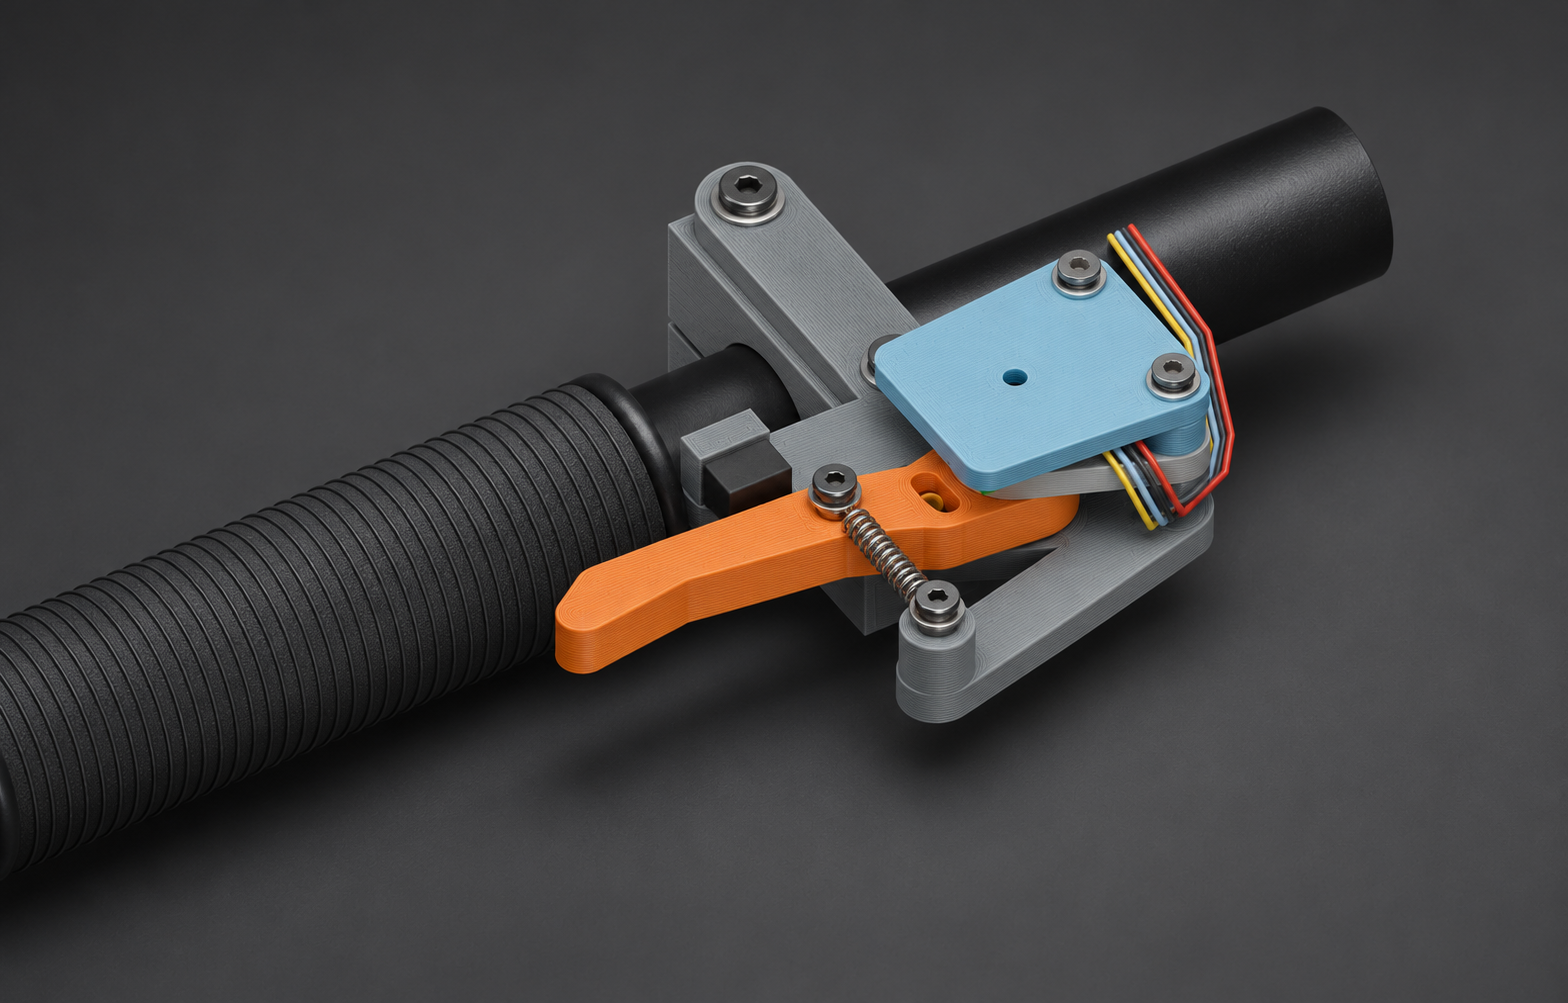
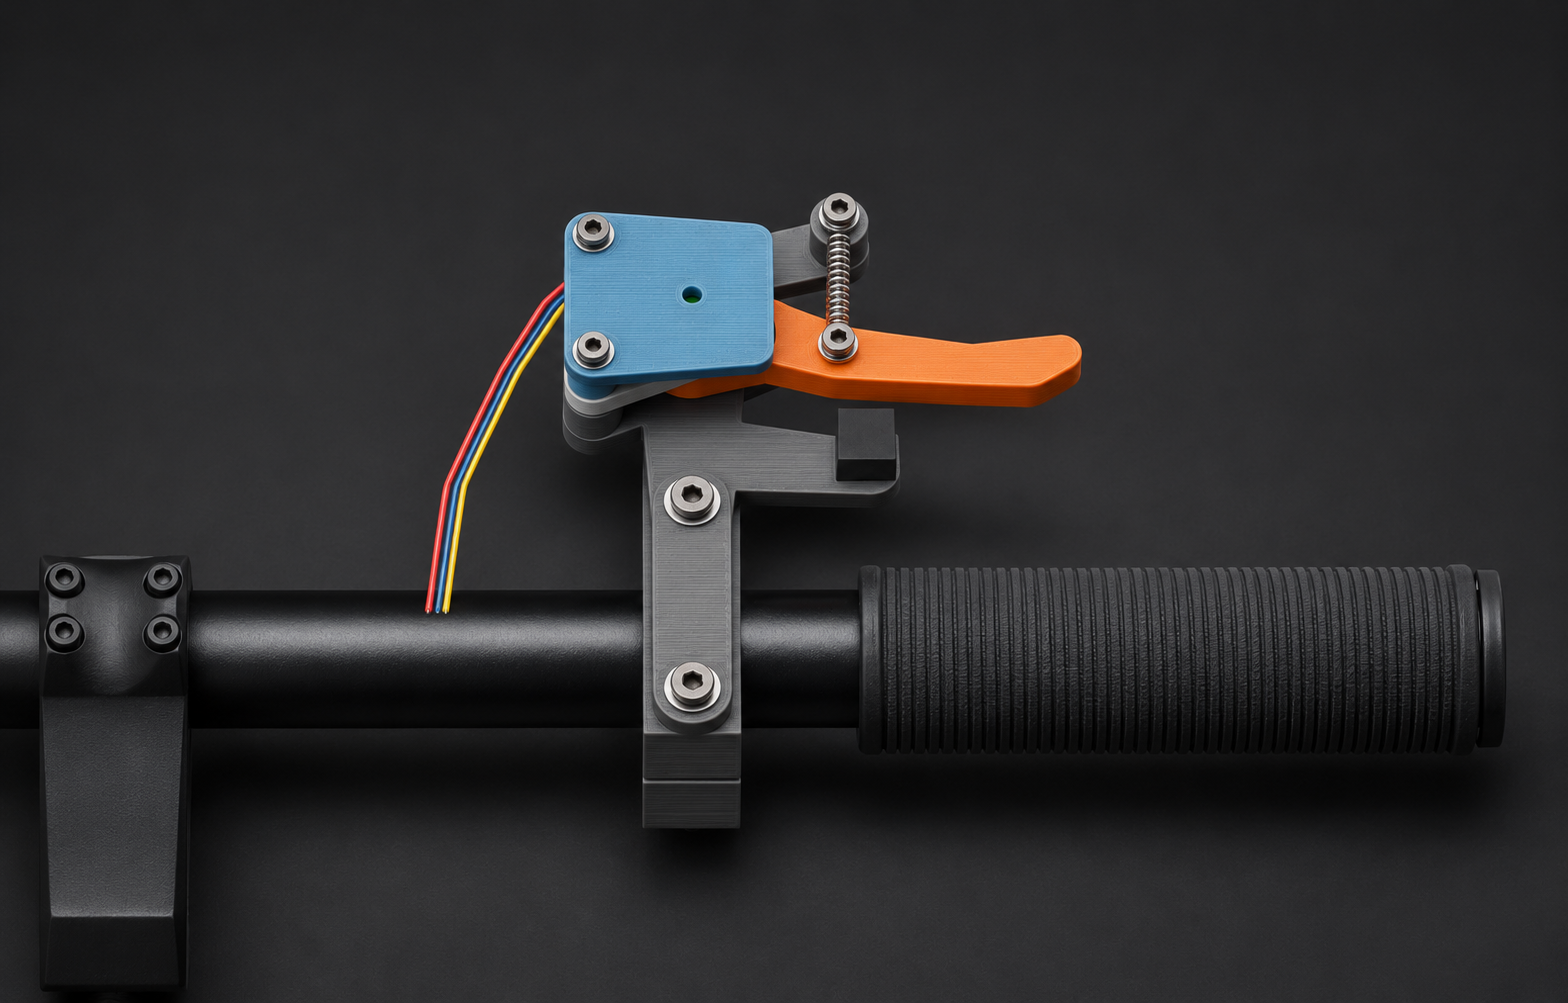
Clarify outward brake lever orientation with rider-side render

diff --git a/tools/brake-render/render_cad.py b/tools/brake-render/render_cad.py
@@ -146,9 +146,16 @@ for center,sgn,endpt in [(a,1,pts[0]),(b,-1,pts[-1])]:
     path('Extension spring eye',eye,.34,steel)
     path('Spring connecting hook',[eye[20 if sgn==1 else 60],endpt],.34,steel)
 
-cyl('22.2 mm handlebar context',(25,-45,-15.5),11.1,200,bar_mat,'X',96)
+cyl('22.2 mm handlebar context',(-40,-45,-15.5),11.1,340,bar_mat,'X',96)
 cyl('Rubber grip context',(77.5,-45,-15.5),14.4,100,gripmat,'X',96)
 for x in [29,126]:cyl('Grip lock ring',(x,-45,-15.5),14.6,3.5,blacksteel,'X',96)
+cyl('Visible outboard bar-end plug',(130,-45,-15.5),14.1,3.5,gripmat,'X',96)
+# Contextual stem at the inboard end makes right-hand orientation unambiguous.
+# These objects are not part of the supplied brake CAD or its bill of materials.
+cyl('Contextual stem bar clamp',(-94,-45,-15.5),16.8,24,blacksteel,'X',64)
+box('Contextual stem body',(-94,-74,-17),(24,52,24),blacksteel)
+for x in [-102,-86]:
+    for y in [-50,-40]:screw_head('Contextual stem bolt',x,y,-.2,2.6)
 for i in range(38):
     x=33+i*2.4
     points=[(x,-45+14.48*math.cos(t*math.tau/96),-15.5+14.48*math.sin(t*math.tau/96)) for t in range(97)]
@@ -178,10 +185,12 @@ scene.render.resolution_x=1800;scene.render.resolution_y=1152;scene.render.resol
 scene.render.image_settings.file_format='PNG'
 scene.view_settings.view_transform='AgX'
 camdata=bpy.data.cameras.new('Camera');cam=bpy.data.objects.new('Camera',camdata);bpy.context.collection.objects.link(cam)
-scene.camera=cam;camdata.type='ORTHO';camdata.ortho_scale=192
+scene.camera=cam;camdata.type='ORTHO';camdata.ortho_scale=255
 def camera(loc,target):
     cam.location=loc;cam.rotation_euler=(Vector(target)-cam.location).to_track_quat('-Z','Y').to_euler()
-camera((125,150,180),(21,-20,-2))
+# Rider at negative Y; the right-hand outer end is positive X / screen right.
+# The trigger points toward the grip/bar end, with its pivot inboard.
+camera((15,-190,280),(15,-20,-8))
 scene.render.filepath=str(OUT/'maneta-v01-cad-assembly.png')
 bpy.ops.wm.save_as_mainfile(filepath=str(OUT/'maneta-v01-assembly.blend'))
 bpy.ops.render.render(write_still=True)
@@ -190,7 +199,7 @@ cover.hide_render=True
 pcb.hide_render=True
 for o in bpy.data.objects:
     if o.name.startswith(('AS5600 downward','Chip contact','M3 cover','Four-wire')):o.hide_render=True
-camera((70,100,260),(20,-18,-2));camdata.ortho_scale=160
+camera((15,-150,300),(15,-20,-8));camdata.ortho_scale=235
 scene.render.filepath=str(OUT/'maneta-v01-cad-open.png')
 bpy.ops.render.render(write_still=True)
 print('Saved exact STL reference renders',flush=True)

diff --git a/docs/brake-v01-render.md b/docs/brake-v01-render.md
@@ -32,20 +32,20 @@ The right-hand assembly follows the OpenSCAD transforms. Coordinates below are i
 | Upper clamp half | `(8-z, y-45, x-15.5)` |
 | Lower clamp half | `(8-z, y-45, -x-15.5)` |
 
-The contextual handlebar runs along X through Y=-45, Z=-15.5, with a 22.2 mm diameter. The CAD reference uses the original printed-part surfaces without smoothing modifiers, subdivision, bevels or remeshing. Duplicate triangle vertices are merged and normals recalculated. [Blender renderer and usage](../tools/brake-render/README.md).
+The contextual handlebar runs along X through Y=-45, Z=-15.5, with a 22.2 mm diameter. In the rider-side view, +X is outward toward the right grip/bar end. The pivot remains inboard; the trigger stays ahead of the handlebar. The visible stem on the left and bar-end plug on the right clarify the mounting orientation without changing the source assembly. The CAD reference uses the original printed-part surfaces without smoothing modifiers, subdivision, bevels or remeshing. Duplicate triangle vertices are merged and normals recalculated. [Blender renderer and usage](../tools/brake-render/README.md).
 
 ## What is accurate, and what is illustrative
 
 The reference fixes the six printed parts, their proportions and their assembled positions. The exposed spring anchors, rubber stop, magnet seat, cover hole and sensor arrangement follow the assembly notes and drawings. The realistic image was checked against this reference for meaningful changes in shape or missing components.
 
-PETG colours and surface finish, the detailed spring coils, fastener recesses, sensor-board details, wire routing and the handlebar/grip appearance are visualization choices. ImageGen can interpret small details; use the original CAD and PDF for dimensions. The AS5600 PCB is under the cover. The four-wire lead goes to an external controller: the design does not specify a local Bluetooth pod or LED on the lever.
+PETG colours and surface finish, the detailed spring coils, fastener recesses, sensor-board details, wire routing and the handlebar/grip/stem appearance are visualization choices. ImageGen can interpret small details; use the original CAD and PDF for dimensions. The AS5600 PCB is under the cover. The four-wire lead goes to an external controller: the design does not specify a local Bluetooth pod or LED on the lever.
 
 This is a rendering of a proposed mechanical prototype, not a photograph of a built device or evidence of fit, strength, sensor accuracy or working firmware. The package defines lever-angle sensing; it does not measure hydraulic pressure or finger force. The [hardware guide](bluetooth-brakes.md#maneta-v01-planned-hardware) records the proposed components and pending validation.
 
 ## Generation method and prompt
 
-The direct reference was rendered in **Blender 4.5.16 LTS, Cycles, 48 samples**, with a right-hand lever angle of 8 degrees. The built-in **ImageGen** tool then processed that single local reference image with an opaque background. No API/CLI fallback was used. The generated file was copied into `docs/images/`; the original output was retained locally.
+The direct reference was rendered in **Blender 4.5.16 LTS, Cycles, 24 samples**, with a right-hand lever angle of 8 degrees. The camera is at `(15,-190,280)`, looking at `(15,-20,-8)`, with an orthographic scale of 255. This revised view makes the outward trigger direction explicit. The built-in **ImageGen** tool then processed that single local reference image with an opaque background. No API/CLI fallback was used. The generated file was copied into `docs/images/`; the original output was retained locally.
 
 ```text
-Use case: precise-object-edit. Asset type: realistic product rendering for the open-source MTB Indoor - Bern brake hardware documentation. Edit the supplied CAD render into a polished photorealistic studio visualization. Input image 1 is the immutable geometry and camera reference, generated directly from the owner's Maneta-MTB-v01 STL meshes. Preserve the exact visible silhouette, proportions, part locations, 8-degree lever pose, camera angle, crop, two-piece rectangular handlebar clamp, orange slightly curved PETG lever, open frame, exposed steel extension spring between the two existing anchors, black rubber bumper, blue flat sensor cover with its small central hole and two mounting screws, and four thin coloured sensor wires. These parts must remain unmistakably the same design. Change only surface realism and lighting: subtle 0.2 mm FDM layer lines on all plastic parts including the orange lever and blue cover, natural matte PETG, plausible real steel washers and recessed hex socket screws, rubber grip texture, clean soft studio shadows and a restrained dark grey background. The grip is intentionally partly out of frame. Keep the four wires at the same path; they lead to external electronics, so no Bluetooth electronics box, LED, display, battery or hydraulic hose should be added to the lever. The coloured parts are printed plastic, not anodized metal. Do not redesign, move, duplicate, remove or smooth away any mechanical parts or holes. No person, no hands, no bicycle beyond this handlebar segment, no labels, text, logos, watermarks, arrows or graphic overlays. Opaque background. This is an engineering prototype visualization, not a manufactured commercial brake.
+Use case: precise-object-edit. Asset type: realistic product rendering for MTB Indoor - Bern brake hardware documentation. Edit the supplied CAD render into a photorealistic studio visualization with the SAME GEOMETRY AND CAMERA. The input is the corrected rider-side view of the owner's right-hand Maneta v01 STL assembly. Orientation is critical: the black right grip and its outer bar-end plug are on SCREEN RIGHT; the handlebar centre and partial stem are on SCREEN LEFT. The orange trigger projects OUTWARD toward the RIGHT grip/bar end, with its pivot and blue sensor cover INBOARD to its LEFT. The trigger is on the forward side of the handlebar, as on a normal bicycle brake. Do not mirror, rotate, relocate or redesign the trigger or assembly, and do not swap the grip and stem. Preserve every printed-part silhouette, original proportions, eight-degree lever pose, spring between its two existing anchors, black rubber stop, blue sensor cover with centre hole and two screws, four thin coloured wires, and the two-piece rectangular clamp. Change only surface realism and lighting: subtle realistic 0.2 mm FDM layer lines on graphite, blue and orange PETG, matte polymer finish, plausible steel washers and recessed socket screws, realistic textured black rubber grip, anodized black bar and contextual stem, soft clean studio shadows on a dark charcoal ground. Keep the entire outboard grip end visible. Keep the camera, framing and object placement exactly as supplied. No LED, battery, Bluetooth pod, hydraulic hose or additional electronics. These are printed plastic parts, not metal. No hands, people, labels, words, logos, arrows, watermarks, or graphic overlays. Opaque background. The stem and grip provide mounting context; this is a visualization of a proposed mechanical prototype, not a photograph of a manufactured device.
 ```

diff --git a/tools/brake-render/README.md b/tools/brake-render/README.md
@@ -17,6 +17,8 @@ Use Blender 4.5 LTS with Cycles. Extract the owner-supplied `Maneta-MTB-v01.zip`
 
 Outputs are `maneta-v01-cad-assembly.png`, `maneta-v01-cad-open.png` and an editable `maneta-v01-assembly.blend`. Source coordinates are millimetres; the numerical scene coordinates preserve that scale. The displayed lever angle is 8 degrees within its nominal 22-degree travel.
 
-The six printed parts use the original mesh geometry without subdivision, bevels or remeshing. Duplicate STL vertices are merged for correct normals. Materials and studio lighting are visualization choices. Hardware, spring coils, sensor-board details, wires, tube and grip are illustrative additions based on the assembly notes, not newly supplied manufacturing models.
+The camera looks from the rider's side. The right grip and visible bar end are on the right, with a contextual stem on the left: the trigger points outward toward the grip, and the pivot stays inboard. This orientation comes from the camera and handlebar context; the source parts and spring/stop arrangement are preserved.
+
+The six printed parts use the original mesh geometry without subdivision, bevels or remeshing. Duplicate STL vertices are merged for correct normals. Materials and studio lighting are visualization choices. Hardware, spring coils, sensor-board details, wires, tube, grip and stem are illustrative additions based on the assembly notes and mounting context, not newly supplied manufacturing models.
 
 The script is an offline rendering tool. It does not generate print files, validate mechanical fit or supply brake firmware. It does not control the trainer or Bluetooth devices.

diff --git a/DEVELOPMENT_LOG.md b/DEVELOPMENT_LOG.md
@@ -10,7 +10,7 @@ The [Bluetooth brakes guide](docs/bluetooth-brakes.md) now shows the **actual Ma
 
 ![Maneta v01 render based on the supplied mechanical design](docs/images/bluetooth-brake-v01-realistic.png)
 
-The exposed return spring, rubber stop, sensor cover and two-piece clamp follow the design package. The six printed parts retain their source geometry in the [direct CAD reference](docs/images/bluetooth-brake-v01-cad.png). Colours, spring-coil details, fasteners, wire routing and the handlebar/grip are visualization choices. This image documents a proposed prototype, not a completed physical build.
+The exposed return spring, rubber stop, sensor cover and two-piece clamp follow the design package. The six printed parts retain their source geometry in the [direct CAD reference](docs/images/bluetooth-brake-v01-cad.png). The rider-side view shows the trigger pointing outward toward the right grip/bar end, with the pivot inboard and a contextual stem on the left. Colours, spring-coil details, fasteners, wire routing and the handlebar/grip/stem are visualization choices. This image documents a proposed prototype, not a completed physical build.
 
 The hardware list now records the proposed **two AS5600 sensors, TCA9548A multiplexer and external LilyGO T-Beam Supreme**, with supplier and technical links. Each sensor measures lever angle. Custom BLE firmware, proportional simulator input and physical validation remain pending; existing Click A-button braking is unchanged.
 

diff --git a/docs/bluetooth-brakes.md b/docs/bluetooth-brakes.md
@@ -14,6 +14,8 @@ This section brings together the working Bluetooth brake input and the early des
 
 *Based on the supplied STL files, OpenSCAD assembly and PDF drawings. The meshes were assembled in Blender before ImageGen added realistic materials and lighting. Colours, fastener details and cable routing are illustrative; this is not a photograph of a built prototype. [CAD reference, source hashes and prompt](brake-v01-render.md).*
 
+Viewed from the rider's side: the trigger points **outward toward the right grip and bar end**, with the pivot inboard, as on a conventional bicycle brake lever.
+
 ## Working today
 
 - Hold **A** on the right Click 2 to brake; release it to coast. Keyboard **A / Space** and the on-screen brake are also supported.
